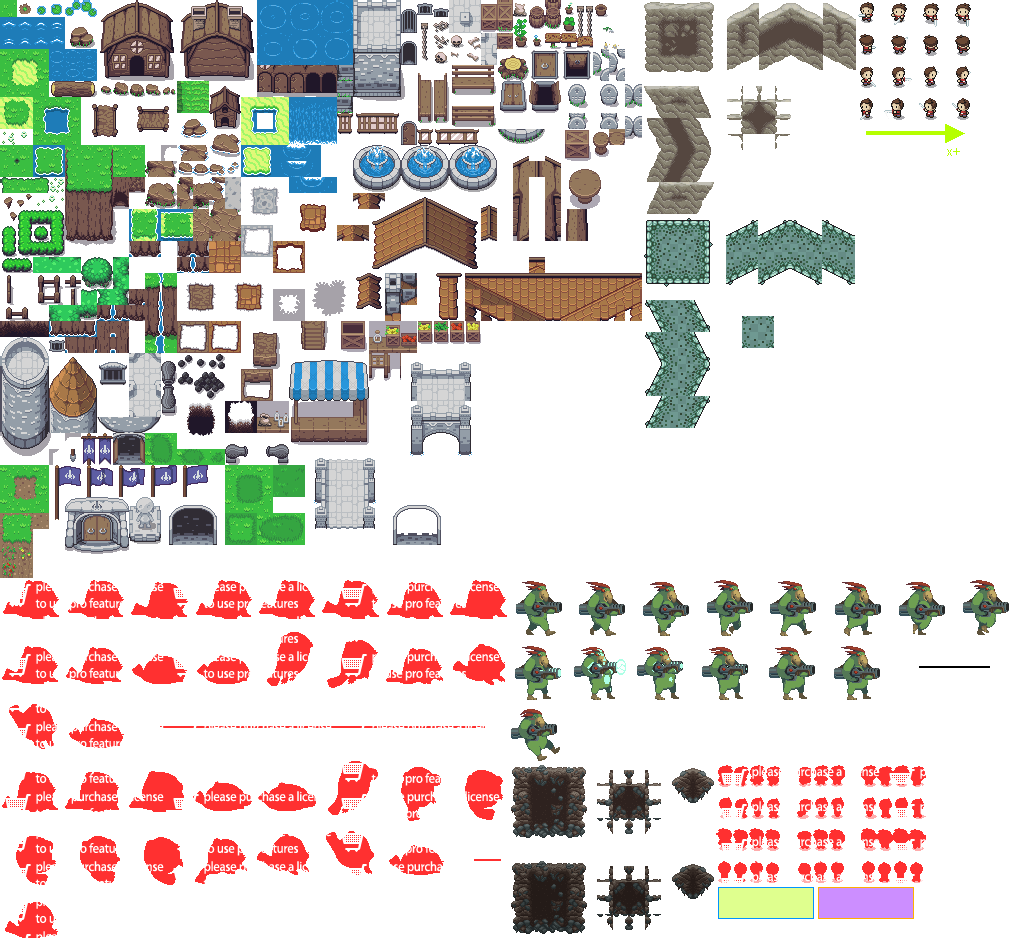
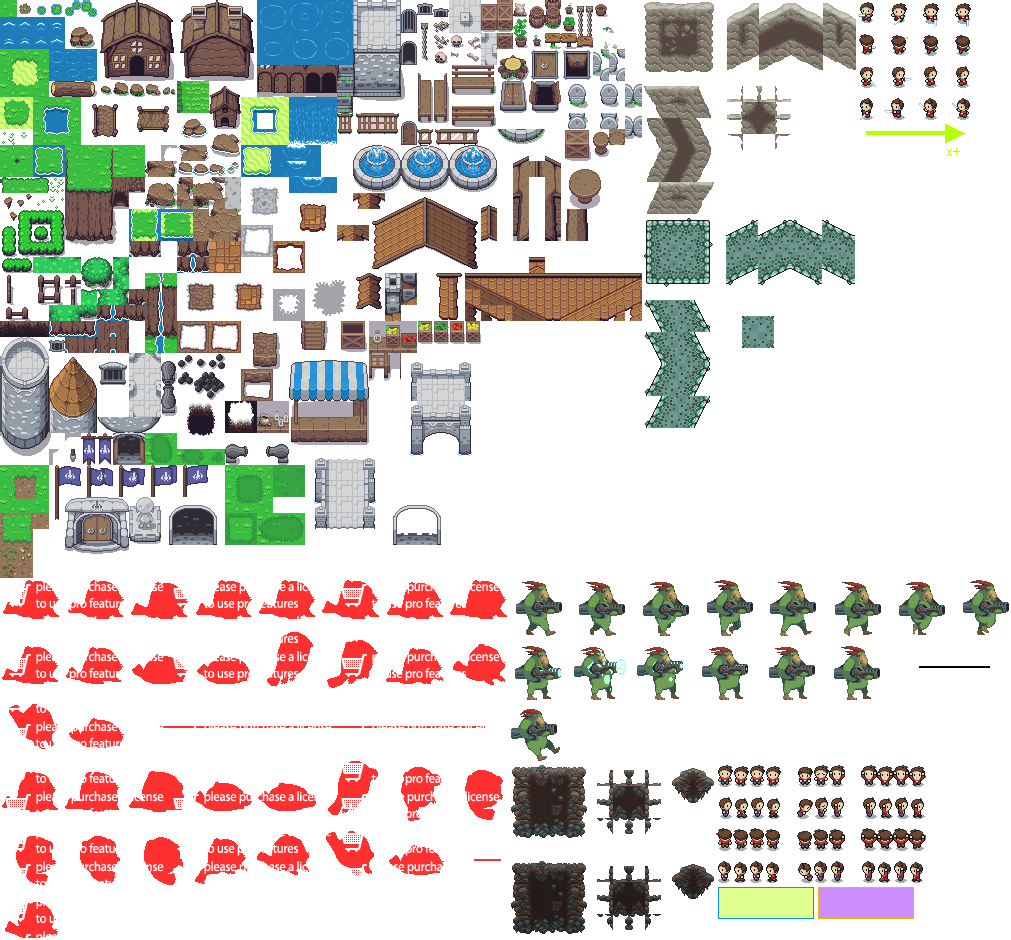
Changed animation, added Hero

Changed region(s): [[0.7052, 0.8021, 0.9199, 0.9564]]

diff --git a/Tygem/JS/game.js b/Tygem/JS/game.js
@@ -3633,12 +3633,31 @@ class SpriteRenderer extends PackedImageRenderer {
             this.spriteFrame = null;
         };
         this.playAnimation = (animation, nextAnimation = null) => {
-            if (animation !== null && (animation.frames == null || animation.frames.length === 0)) {
-                console.error("Cannot play animation " + animation.name + " because it has no frames");
+            if ((animation != null && (typeof animation === "string")) ||
+                (nextAnimation != null && (typeof nextAnimation === "string"))) {
+                if (nextAnimation == null) {
+                    this.playAnimationByName(animation);
+                }
+                else if (typeof nextAnimation === "string") {
+                    this.playAnimationByName(animation, nextAnimation);
+                }
+                else {
+                    this.playAnimationByName(animation, nextAnimation.name);
+                }
+                return;
+            }
+            let anim = null;
+            if (animation != null)
+                anim = animation;
+            let nextAnim = null;
+            if (nextAnimation != null)
+                nextAnim = nextAnimation;
+            if (anim !== null && (anim.frames == null || anim.frames.length === 0)) {
+                console.error("Cannot play animation " + anim.name + " because it has no frames");
                 animation = null;
             }
-            this.animation = animation;
-            this.nextAnimation = nextAnimation;
+            this.animation = anim;
+            this.nextAnimation = nextAnim;
             if (this.animSpeed < 0 && this.animation !== null) {
                 this.animTime = this.animation.getDuration() - .0001;
             }
@@ -6263,7 +6282,9 @@ Spritesheet.addSpritesheet("sealime.png", 64, 64, 8, 41);
 Animation.addAnimation("sealime_idle", "sealime.png", [0, 1, 2, 3, 4, 5, 6, 7], 10, true);
 Animation.addAnimation("sealime_leap", "sealime.png", [8, 9, 10, 11, 12, 13, 14, 15, 16, 17], 10, false);
 Spritesheet.addSpritesheet("hero/walk.png", 16, 32, 13, 52);
-Animation.addAnimation("hero_idle", "hero/walk.png", [0], 10, true);
+Animation.addAnimation("hero_idle_down", "hero/walk.png", [0], 10, true);
+Animation.addAnimation("hero_idle_right", "hero/walk.png", [13], 10, true);
+Animation.addAnimation("hero_idle_up", "hero/walk.png", [26], 10, true);
 Animation.addAnimation("hero_walk_down", "hero/walk.png", [0, 1, 2, 3], 10, true);
 Animation.addAnimation("hero_walk_right", "hero/walk.png", [13, 14, 15, 16], 10, true);
 Animation.addAnimation("hero_walk_up", "hero/walk.png", [26, 27, 28, 29], 10, true);
@@ -6884,6 +6905,99 @@ var Comps;
 })(Comps || (Comps = {}));
 var Comps;
 (function (Comps) {
+    var Hero_State;
+    (function (Hero_State) {
+        Hero_State[Hero_State["NONE"] = 0] = "NONE";
+        Hero_State[Hero_State["IDLE"] = 1] = "IDLE";
+        Hero_State[Hero_State["WALK"] = 2] = "WALK";
+    })(Hero_State || (Hero_State = {}));
+    class Hero extends Component {
+        constructor() {
+            super();
+            this.onStart = () => {
+                this.actor = this.getComponent(Actor);
+                this.spriteRenderer = this.getComponent(SpriteRenderer);
+                this.faceDirection = Direction.DOWN;
+                this.idle();
+            };
+            this.onUpdate = () => {
+                this.leftHeld = Keys.keyHeld(Key.LeftArrow);
+                this.rightHeld = Keys.keyHeld(Key.RightArrow);
+                this.upHeld = Keys.keyHeld(Key.UpArrow);
+                this.downHeld = Keys.keyHeld(Key.DownArrow);
+                if (this.leftHeld !== this.rightHeld) {
+                    this.faceDirection = this.leftHeld ? Direction.LEFT : Direction.RIGHT;
+                    this.walk();
+                }
+                else if (this.upHeld !== this.downHeld) {
+                    this.faceDirection = this.upHeld ? Direction.UP : Direction.DOWN;
+                    this.walk();
+                }
+                else {
+                    this.idle();
+                }
+                this.updateAnimation();
+            };
+            this.idle = () => {
+                if (this.state === Hero_State.IDLE)
+                    return;
+                this.state = Hero_State.IDLE;
+            };
+            this.walk = () => {
+                if (this.state === Hero_State.WALK)
+                    return;
+                this.state = Hero_State.WALK;
+            };
+            this.updateAnimation = () => {
+                let anim = "hero";
+                let flipped = false;
+                switch (this.state) {
+                    case Hero_State.NONE:
+                        return;
+                    case Hero_State.IDLE:
+                        anim += "_idle";
+                        break;
+                    case Hero_State.WALK:
+                        anim += "_walk";
+                        break;
+                }
+                switch (this.faceDirection) {
+                    case Direction.NONE:
+                        return;
+                    case Direction.LEFT:
+                        flipped = true;
+                    case Direction.RIGHT:
+                        anim += "_right";
+                        break;
+                    case Direction.UP:
+                        anim += "_up";
+                        break;
+                    case Direction.DOWN:
+                        anim += "_down";
+                        break;
+                }
+                if (flipped === this.getTransform().scaleX > 0) {
+                    this.getTransform().scaleX *= -1;
+                }
+                if (this.spriteRenderer.getAnimation() === null ||
+                    this.spriteRenderer.getAnimation().name !== anim) {
+                    this.spriteRenderer.playAnimation(anim);
+                }
+            };
+            this.onDestroy = () => { };
+            this.leftHeld = false;
+            this.rightHeld = false;
+            this.upHeld = false;
+            this.downHeld = false;
+            this.state = Hero_State.NONE;
+            this.faceDirection = Direction.NONE;
+            this.name = "Hero";
+        }
+    }
+    Comps.Hero = Hero;
+})(Comps || (Comps = {}));
+var Comps;
+(function (Comps) {
     class MovePlatformWithIJKL extends Component {
         constructor() {
             super();
@@ -7124,7 +7238,7 @@ var Prefabs;
         go.addComponent(ActorGizmo);
         let sr = go.addComponent(SpriteRenderer);
         sr.imageSmoothingEnabled = false;
-        sr.playAnimationByName("hero_idle");
+        let hero = go.addComponent(Comps.Hero);
         return go;
     }
     Prefabs.Hero = Hero;
@@ -7144,7 +7258,7 @@ var Prefabs;
         let actorTestController = go.addComponent(Comps.ArrowTestController);
         let sr = go.addComponent(SpriteRenderer);
         sr.imageSmoothingEnabled = false;
-        sr.playAnimationByName("sealime_leap", "sealime_idle");
+        sr.playAnimation("sealime_leap", "sealime_idle");
         sr.order = 1.0;
         sr.tintColor = "blue";
         sr.tintAmount = .5;

diff --git a/Tygem/Code/Components/Hero.ts b/Tygem/Code/Components/Hero.ts
@@ -1,0 +1,124 @@
+/// <reference path="../../Tygem/_ref.ts" />
+
+namespace Comps {
+    
+    enum Hero_State {
+        NONE,
+        IDLE,
+        WALK
+    }
+
+    export class Hero extends Component {
+        
+        constructor() {
+            super();
+            this.name = "Hero";
+
+            //this.componentProperties.requireComponent();
+        }
+        
+        // Called once for a Component.  Either called when a scene finishes loading, or just before update().
+        onStart = (): void => {
+            this.actor = this.getComponent(Actor);
+            this.spriteRenderer = this.getComponent(SpriteRenderer);
+
+            // start
+            this.faceDirection = Direction.DOWN;
+            this.idle();
+        }
+        
+        // called once per frame, during the update step.  Is not called if the component is disabled.
+        onUpdate = (): void => {
+
+            // getting input
+            this.leftHeld = Keys.keyHeld(Key.LeftArrow);
+            this.rightHeld = Keys.keyHeld(Key.RightArrow);
+            this.upHeld = Keys.keyHeld(Key.UpArrow);
+            this.downHeld = Keys.keyHeld(Key.DownArrow);
+
+            
+            if (this.leftHeld !== this.rightHeld) {
+                this.faceDirection = this.leftHeld ? Direction.LEFT : Direction.RIGHT;
+                this.walk();
+            } else if (this.upHeld !== this.downHeld) {
+                this.faceDirection = this.upHeld ? Direction.UP : Direction.DOWN;
+                this.walk();
+            } else {
+                this.idle();
+            }
+
+            this.updateAnimation();
+
+        }
+
+        idle = (): void => {
+            if (this.state === Hero_State.IDLE) return;
+
+            this.state = Hero_State.IDLE;
+        }
+        walk = (): void => {
+            if (this.state === Hero_State.WALK) return;
+
+            this.state = Hero_State.WALK;
+        }
+
+        private updateAnimation = (): void => {
+
+            let anim: string = "hero";
+            let flipped: boolean = false;
+            switch (this.state) {
+                case Hero_State.NONE:
+                    return;
+                case Hero_State.IDLE:
+                    anim += "_idle";
+                    break;
+                case Hero_State.WALK:
+                    anim += "_walk";
+                    break;
+            }
+            switch (this.faceDirection) {
+                case Direction.NONE:
+                    return;
+                case Direction.LEFT:
+                    flipped = true;
+                case Direction.RIGHT:
+                    anim += "_right";
+                    break;
+                case Direction.UP:
+                    anim += "_up";
+                    break;
+                case Direction.DOWN:
+                    anim += "_down";
+                    break;
+            }
+
+            if (flipped === this.getTransform().scaleX > 0) {
+                this.getTransform().scaleX *= -1;
+            }
+
+            if (this.spriteRenderer.getAnimation() === null ||
+                this.spriteRenderer.getAnimation().name !== anim) {
+                this.spriteRenderer.playAnimation(anim);
+            }
+            
+        }
+        
+        // called just before the component is destroyed.
+        onDestroy = (): void => { }
+
+        // input vars
+        private leftHeld: boolean = false;
+        private rightHeld: boolean = false;
+        private upHeld: boolean = false;
+        private downHeld: boolean = false;
+
+        private state: Hero_State = Hero_State.NONE;
+        private faceDirection: Direction = Direction.NONE;
+
+        // components
+        private actor: Actor;
+        private spriteRenderer: SpriteRenderer;
+
+    }
+
+}

diff --git a/Tygem/Tygem/SpriteRenderer.ts b/Tygem/Tygem/SpriteRenderer.ts
@@ -61,17 +61,36 @@ class SpriteRenderer extends PackedImageRenderer {
     }
 
     /**
-     * Plays the given animation.
-     * @param animation The animation to play.  Can be null to stop the animation.
+     * Plays the given animation.  
+     * @param animation The animation to play.  Can be the Animation object or a string being the name of the animation.  Can be null to stop the animation.
      * @param nextAnimation (default is null) The animation to play after the other animation finishes (doesn't apply when playing backwards).  This won't happen when set to null.
      */
-    playAnimation = (animation: Animation, nextAnimation: Animation = null): void => {
-        if (animation !== null && (animation.frames == null || animation.frames.length === 0)) {
-            console.error("Cannot play animation " + animation.name + " because it has no frames");
+    playAnimation = (animation: Animation | string, nextAnimation: Animation | string = null): void => {
+        if ((animation != null && (typeof animation === "string")) ||
+            (nextAnimation != null && (typeof nextAnimation === "string"))) {
+            if (nextAnimation == null) {
+                this.playAnimationByName(animation as string);
+            } else if (typeof nextAnimation === "string") {
+                this.playAnimationByName(animation as string, nextAnimation as string);
+            } else {
+                this.playAnimationByName(animation as string, (nextAnimation as Animation).name);
+            }
+            return;
+        }
+
+        let anim: Animation = null;
+        if (animation != null)
+            anim = animation as Animation;
+        let nextAnim: Animation = null;
+        if (nextAnimation != null)
+            nextAnim = nextAnimation as Animation;
+
+        if (anim !== null && (anim.frames == null || anim.frames.length === 0)) {
+            console.error("Cannot play animation " + anim.name + " because it has no frames");
             animation = null;
         }
-        this.animation = animation;
-        this.nextAnimation = nextAnimation;
+        this.animation = anim;
+        this.nextAnimation = nextAnim;
         if (this.animSpeed < 0 && this.animation !== null) {
             // playing backwards.  Start animation at the end
             this.animTime = this.animation.getDuration() - .0001;
@@ -84,7 +103,7 @@ class SpriteRenderer extends PackedImageRenderer {
      * @param animation The animation to play.  Can be "" to stop the animation.
      * @param nextAnimation (default is "") The animation to play after the other animation finishes (doesn't apply when playing backwards).  This won't happen when set to "".
      */
-    playAnimationByName = (animation: string, nextAnimation: string = ""): void => {
+    private playAnimationByName = (animation: string, nextAnimation: string = ""): void => {
         let anim: Animation = null;
         if (animation != null && animation !== "") {
             anim = Animation.getAnimation(animation);

diff --git a/Tygem/Code/add_Textures.ts b/Tygem/Code/add_Textures.ts
@@ -32,7 +32,9 @@ Animation.addAnimation("sealime_leap", "sealime.png", [8, 9, 10, 11, 12, 13, 14,
 
 Spritesheet.addSpritesheet("hero/walk.png", 16, 32, 13, 52);
 
-Animation.addAnimation("hero_idle", "hero/walk.png", [0], 10, true);
+Animation.addAnimation("hero_idle_down", "hero/walk.png", [0], 10, true);
+Animation.addAnimation("hero_idle_right", "hero/walk.png", [13], 10, true);
+Animation.addAnimation("hero_idle_up", "hero/walk.png", [26], 10, true);
 Animation.addAnimation("hero_walk_down", "hero/walk.png", [0, 1, 2, 3], 10, true);
 Animation.addAnimation("hero_walk_right", "hero/walk.png", [13, 14, 15, 16], 10, true);
 Animation.addAnimation("hero_walk_up", "hero/walk.png", [26, 27, 28, 29], 10, true);

diff --git a/Tygem/Code/Prefabs/Sealime.ts b/Tygem/Code/Prefabs/Sealime.ts
@@ -20,7 +20,7 @@ namespace Prefabs {
         
         let sr: SpriteRenderer = go.addComponent(SpriteRenderer);
         sr.imageSmoothingEnabled = false;
-        sr.playAnimationByName("sealime_leap", "sealime_idle");
+        sr.playAnimation("sealime_leap", "sealime_idle");
         sr.order = 1.0;
         sr.tintColor = "blue";
         sr.tintAmount = .5;

diff --git a/Tygem/Code/Prefabs/Hero.ts b/Tygem/Code/Prefabs/Hero.ts
@@ -16,7 +16,8 @@ namespace Prefabs {
 
         let sr: SpriteRenderer = go.addComponent(SpriteRenderer);
         sr.imageSmoothingEnabled = false;
-        sr.playAnimationByName("hero_idle");
+
+        let hero: Comps.Hero = go.addComponent(Comps.Hero);
         
         return go;
     }
